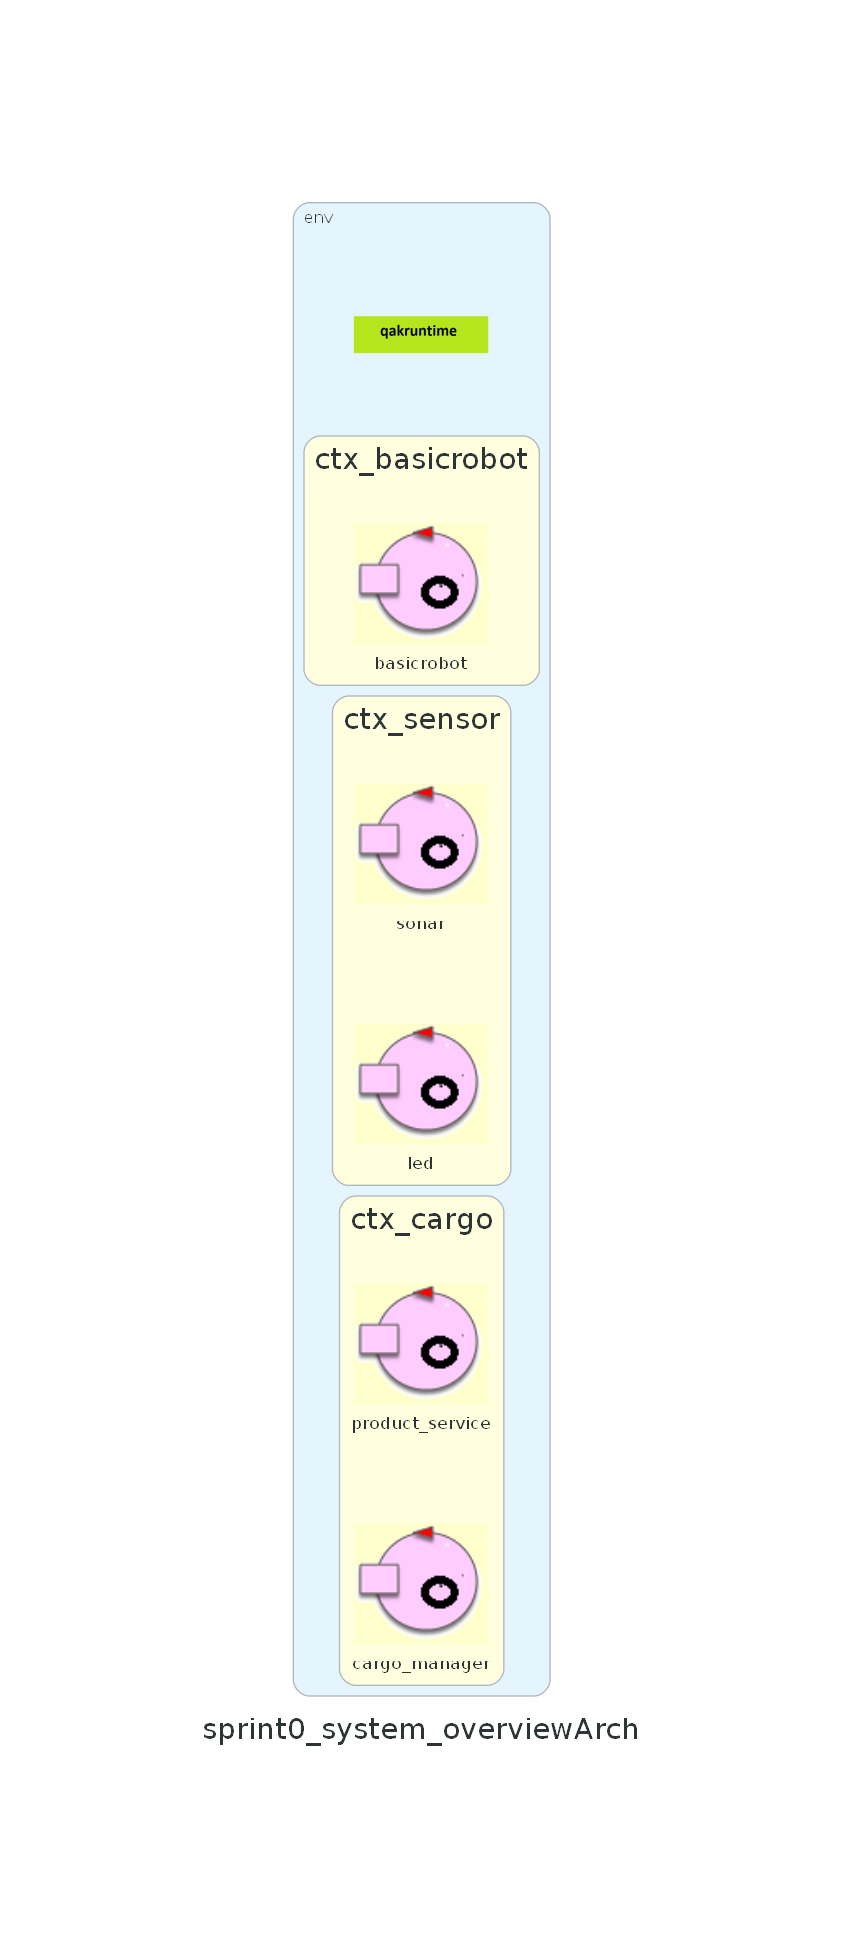
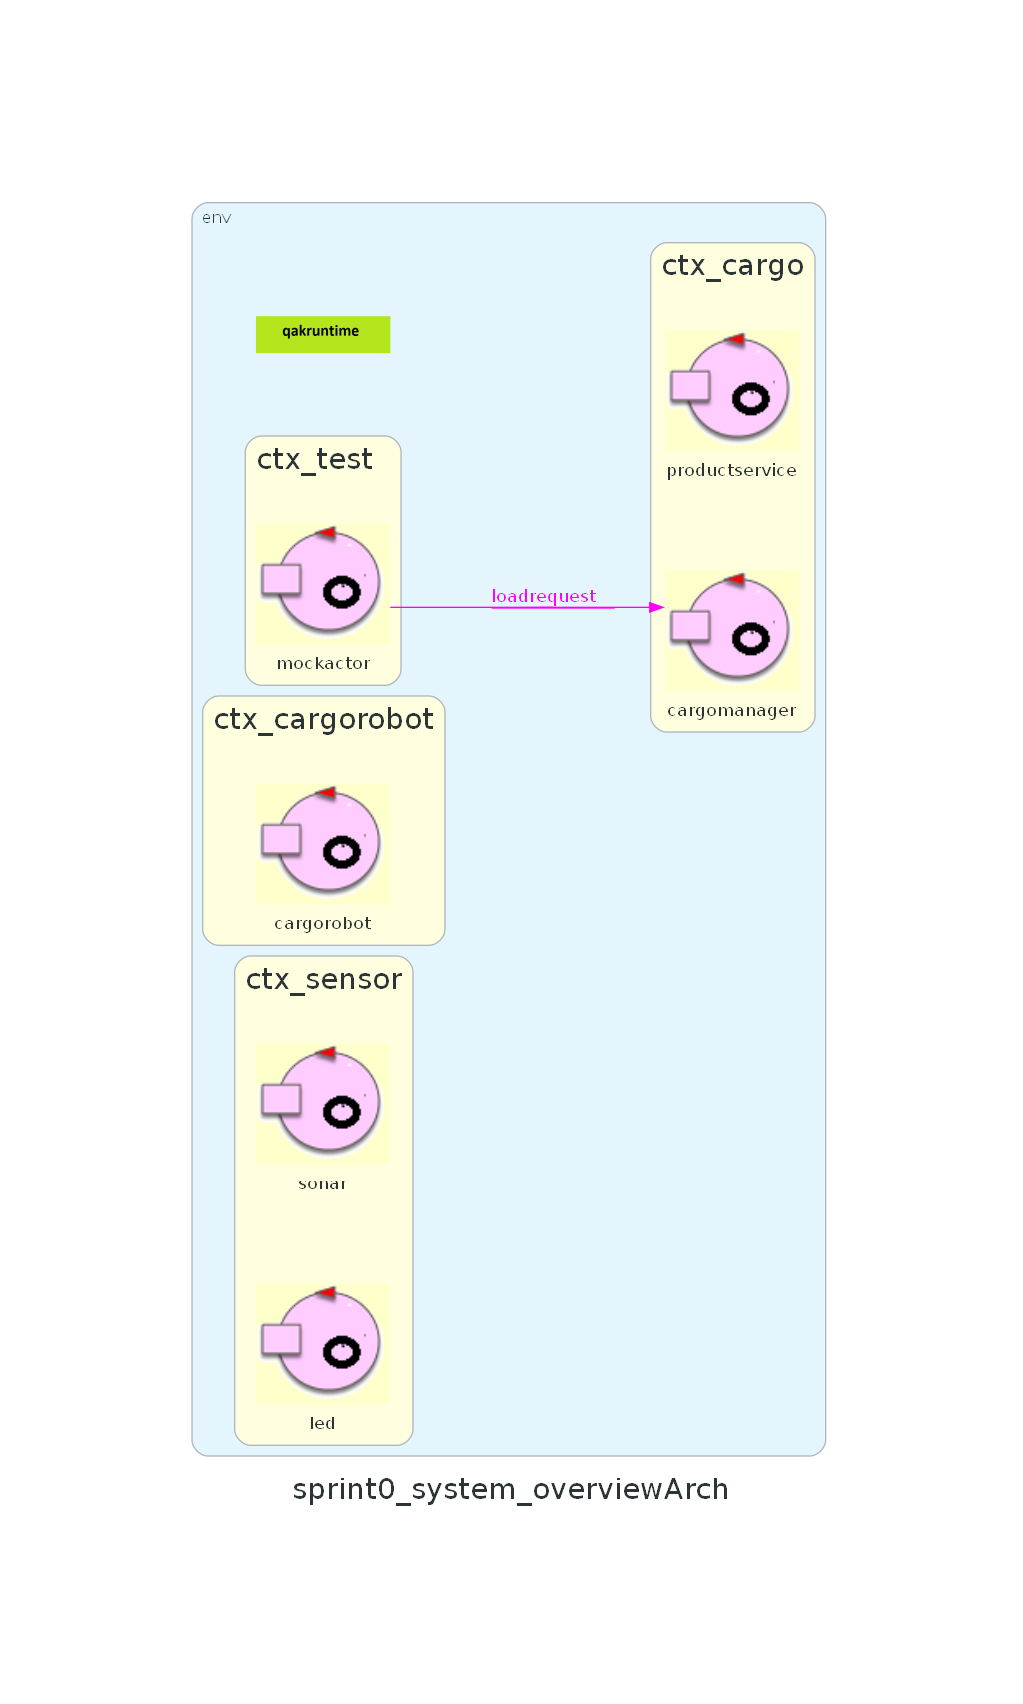
cleanup sprint0

diff --git a/Sprint0/src/it/unibo/mockactor/Mockactor.kt b/Sprint0/src/it/unibo/mockactor/Mockactor.kt
@@ -1,0 +1,55 @@
+/* Generated by AN DISI Unibo */ 
+package it.unibo.mockactor
+
+import it.unibo.kactor.*
+import alice.tuprolog.*
+import unibo.basicomm23.*
+import unibo.basicomm23.interfaces.*
+import unibo.basicomm23.utils.*
+import kotlinx.coroutines.CoroutineScope
+import kotlinx.coroutines.delay
+import kotlinx.coroutines.launch
+import kotlinx.coroutines.runBlocking
+import it.unibo.kactor.sysUtil.createActor   //Sept2023
+//Sept2024
+import org.slf4j.Logger
+import org.slf4j.LoggerFactory 
+import org.json.simple.parser.JSONParser
+import org.json.simple.JSONObject
+
+
+//User imports JAN2024
+
+class Mockactor ( name: String, scope: CoroutineScope, isconfined: Boolean=false, isdynamic: Boolean=false ) : 
+          ActorBasicFsm( name, scope, confined=isconfined, dynamically=isdynamic ){
+
+	override fun getInitialState() : String{
+		return "s0"
+	}
+	override fun getBody() : (ActorBasicFsm.() -> Unit){
+		//val interruptedStateTransitions = mutableListOf<Transition>()
+		//IF actor.withobj !== null val actor.withobj.name» = actor.withobj.method»ENDIF
+		return { //this:ActionBasciFsm
+				state("s0") { //this:State
+					action { //it:State
+						delay(500) 
+						CommUtils.outgreen("$name STARTS")
+						//genTimer( actor, state )
+					}
+					//After Lenzi Aug2002
+					sysaction { //it:State
+					}	 	 
+					 transition( edgeName="goto",targetState="load", cond=doswitch() )
+				}	 
+				state("load") { //this:State
+					action { //it:State
+						request("loadrequest", ""Val"" ,"cargomanager" )  
+						//genTimer( actor, state )
+					}
+					//After Lenzi Aug2002
+					sysaction { //it:State
+					}	 	 
+				}	 
+			}
+		}
+} 

diff --git a/Sprint0/src/it/unibo/productservice/Productservice.kt b/Sprint0/src/it/unibo/productservice/Productservice.kt
@@ -1,0 +1,55 @@
+/* Generated by AN DISI Unibo */ 
+package it.unibo.productservice
+
+import it.unibo.kactor.*
+import alice.tuprolog.*
+import unibo.basicomm23.*
+import unibo.basicomm23.interfaces.*
+import unibo.basicomm23.utils.*
+import kotlinx.coroutines.CoroutineScope
+import kotlinx.coroutines.delay
+import kotlinx.coroutines.launch
+import kotlinx.coroutines.runBlocking
+import it.unibo.kactor.sysUtil.createActor   //Sept2023
+//Sept2024
+import org.slf4j.Logger
+import org.slf4j.LoggerFactory 
+import org.json.simple.parser.JSONParser
+import org.json.simple.JSONObject
+
+
+//User imports JAN2024
+
+class Productservice ( name: String, scope: CoroutineScope, isconfined: Boolean=false, isdynamic: Boolean=false ) : 
+          ActorBasicFsm( name, scope, confined=isconfined, dynamically=isdynamic ){
+
+	override fun getInitialState() : String{
+		return "s0"
+	}
+	override fun getBody() : (ActorBasicFsm.() -> Unit){
+		//val interruptedStateTransitions = mutableListOf<Transition>()
+		//IF actor.withobj !== null val actor.withobj.name» = actor.withobj.method»ENDIF
+		return { //this:ActionBasciFsm
+				state("s0") { //this:State
+					action { //it:State
+						delay(500) 
+						CommUtils.outgreen("$name STARTS")
+						//genTimer( actor, state )
+					}
+					//After Lenzi Aug2002
+					sysaction { //it:State
+					}	 	 
+					 transition( edgeName="goto",targetState="idle", cond=doswitch() )
+				}	 
+				state("idle") { //this:State
+					action { //it:State
+						CommUtils.outblack("$name IDLE...")
+						//genTimer( actor, state )
+					}
+					//After Lenzi Aug2002
+					sysaction { //it:State
+					}	 	 
+				}	 
+			}
+		}
+} 

diff --git a/Sprint0/src/it/unibo/cargorobot/Cargorobot.kt b/Sprint0/src/it/unibo/cargorobot/Cargorobot.kt
@@ -1,0 +1,55 @@
+/* Generated by AN DISI Unibo */ 
+package it.unibo.cargorobot
+
+import it.unibo.kactor.*
+import alice.tuprolog.*
+import unibo.basicomm23.*
+import unibo.basicomm23.interfaces.*
+import unibo.basicomm23.utils.*
+import kotlinx.coroutines.CoroutineScope
+import kotlinx.coroutines.delay
+import kotlinx.coroutines.launch
+import kotlinx.coroutines.runBlocking
+import it.unibo.kactor.sysUtil.createActor   //Sept2023
+//Sept2024
+import org.slf4j.Logger
+import org.slf4j.LoggerFactory 
+import org.json.simple.parser.JSONParser
+import org.json.simple.JSONObject
+
+
+//User imports JAN2024
+
+class Cargorobot ( name: String, scope: CoroutineScope, isconfined: Boolean=false, isdynamic: Boolean=false ) : 
+          ActorBasicFsm( name, scope, confined=isconfined, dynamically=isdynamic ){
+
+	override fun getInitialState() : String{
+		return "s0"
+	}
+	override fun getBody() : (ActorBasicFsm.() -> Unit){
+		//val interruptedStateTransitions = mutableListOf<Transition>()
+		//IF actor.withobj !== null val actor.withobj.name» = actor.withobj.method»ENDIF
+		return { //this:ActionBasciFsm
+				state("s0") { //this:State
+					action { //it:State
+						delay(500) 
+						CommUtils.outgreen("$name STARTS")
+						//genTimer( actor, state )
+					}
+					//After Lenzi Aug2002
+					sysaction { //it:State
+					}	 	 
+					 transition( edgeName="goto",targetState="idle", cond=doswitch() )
+				}	 
+				state("idle") { //this:State
+					action { //it:State
+						CommUtils.outblack("$name IDLE...")
+						//genTimer( actor, state )
+					}
+					//After Lenzi Aug2002
+					sysaction { //it:State
+					}	 	 
+				}	 
+			}
+		}
+} 

diff --git a/Sprint0/src/it/unibo/cargomanager/Cargomanager.kt b/Sprint0/src/it/unibo/cargomanager/Cargomanager.kt
@@ -1,0 +1,45 @@
+/* Generated by AN DISI Unibo */ 
+package it.unibo.cargomanager
+
+import it.unibo.kactor.*
+import alice.tuprolog.*
+import unibo.basicomm23.*
+import unibo.basicomm23.interfaces.*
+import unibo.basicomm23.utils.*
+import kotlinx.coroutines.CoroutineScope
+import kotlinx.coroutines.delay
+import kotlinx.coroutines.launch
+import kotlinx.coroutines.runBlocking
+import it.unibo.kactor.sysUtil.createActor   //Sept2023
+//Sept2024
+import org.slf4j.Logger
+import org.slf4j.LoggerFactory 
+import org.json.simple.parser.JSONParser
+import org.json.simple.JSONObject
+
+
+//User imports JAN2024
+
+class Cargomanager ( name: String, scope: CoroutineScope, isconfined: Boolean=false, isdynamic: Boolean=false ) : 
+          ActorBasicFsm( name, scope, confined=isconfined, dynamically=isdynamic ){
+
+	override fun getInitialState() : String{
+		return "s0"
+	}
+	override fun getBody() : (ActorBasicFsm.() -> Unit){
+		//val interruptedStateTransitions = mutableListOf<Transition>()
+		//IF actor.withobj !== null val actor.withobj.name» = actor.withobj.method»ENDIF
+		return { //this:ActionBasciFsm
+				state("s0") { //this:State
+					action { //it:State
+						delay(500) 
+						CommUtils.outgreen("$name STARTS")
+						//genTimer( actor, state )
+					}
+					//After Lenzi Aug2002
+					sysaction { //it:State
+					}	 	 
+				}	 
+			}
+		}
+} 

diff --git a/Sprint0/src/it/unibo/ctx_cargorobot/MainCtx_cargorobot.kt b/Sprint0/src/it/unibo/ctx_cargorobot/MainCtx_cargorobot.kt
@@ -1,0 +1,15 @@
+/* Generated by AN DISI Unibo */ 
+package it.unibo.ctx_cargorobot
+import it.unibo.kactor.QakContext
+import it.unibo.kactor.sysUtil
+import kotlinx.coroutines.runBlocking
+
+fun main() = runBlocking {
+	//System.setProperty(org.slf4j.impl.SimpleLogger.DEFAULT_LOG_LEVEL_KEY, "ERROR");
+	QakContext.createContexts(
+	        "localhost", this, "sprint0_system_overview.pl", "sysRules.pl", "ctx_cargorobot"
+	)
+	//JAN Facade
+	//JAN24 Display
+}
+

diff --git a/Sprint0/src/it/unibo/ctx_test/MainCtx_test.kt b/Sprint0/src/it/unibo/ctx_test/MainCtx_test.kt
@@ -1,0 +1,15 @@
+/* Generated by AN DISI Unibo */ 
+package it.unibo.ctx_test
+import it.unibo.kactor.QakContext
+import it.unibo.kactor.sysUtil
+import kotlinx.coroutines.runBlocking
+
+fun main() = runBlocking {
+	//System.setProperty(org.slf4j.impl.SimpleLogger.DEFAULT_LOG_LEVEL_KEY, "ERROR");
+	QakContext.createContexts(
+	        "localhost", this, "sprint0_system_overview.pl", "sysRules.pl", "ctx_test"
+	)
+	//JAN Facade
+	//JAN24 Display
+}
+

diff --git a/Sprint0/Arch_sprint0_system_overview.py b/Sprint0/Arch_sprint0_system_overview.py
@@ -26,11 +26,14 @@ with Diagram('sprint0_system_overviewArch', show=False, outformat='png', graph_a
      sys = Custom('','./qakicons/system.png')
 ### see https://renenyffenegger.ch/notes/tools/Graphviz/attributes/label/HTML-like/index
      with Cluster('ctx_cargo', graph_attr=nodeattr):
-          cargo_manager=Custom('cargo_manager','./qakicons/symActorWithobjSmall.png')
-          product_service=Custom('product_service','./qakicons/symActorWithobjSmall.png')
+          cargomanager=Custom('cargomanager','./qakicons/symActorWithobjSmall.png')
+          productservice=Custom('productservice','./qakicons/symActorWithobjSmall.png')
      with Cluster('ctx_sensor', graph_attr=nodeattr):
           led=Custom('led','./qakicons/symActorWithobjSmall.png')
           sonar=Custom('sonar','./qakicons/symActorWithobjSmall.png')
-     with Cluster('ctx_basicrobot', graph_attr=nodeattr):
-          basicrobot=Custom('basicrobot','./qakicons/symActorWithobjSmall.png')
+     with Cluster('ctx_cargorobot', graph_attr=nodeattr):
+          cargorobot=Custom('cargorobot','./qakicons/symActorWithobjSmall.png')
+     with Cluster('ctx_test', graph_attr=nodeattr):
+          mockactor=Custom('mockactor','./qakicons/symActorWithobjSmall.png')
+     mockactor >> Edge(color='magenta', style='solid', decorate='true', label='<loadrequest &nbsp; >',  fontcolor='magenta') >> cargomanager
 diag
